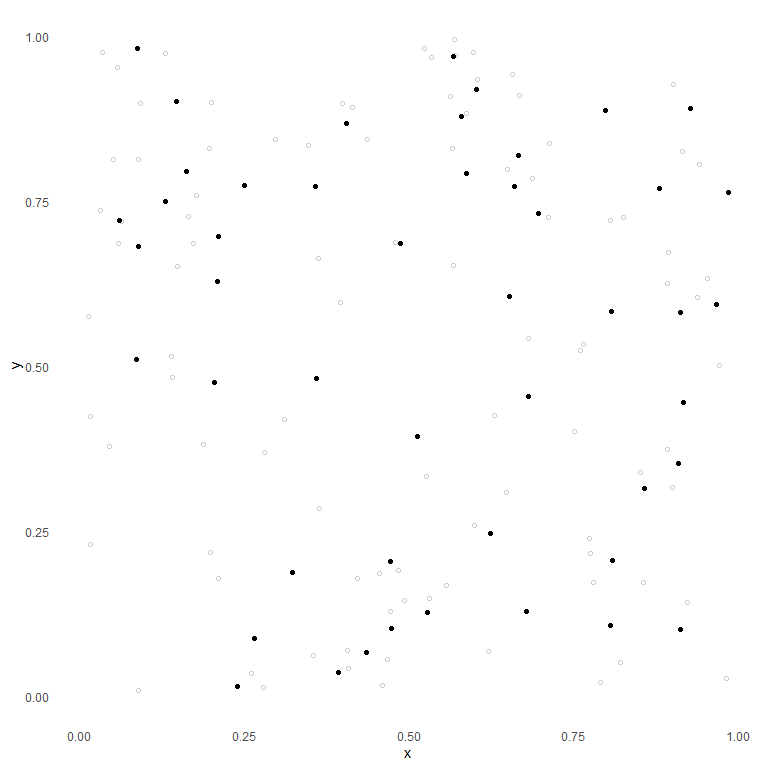
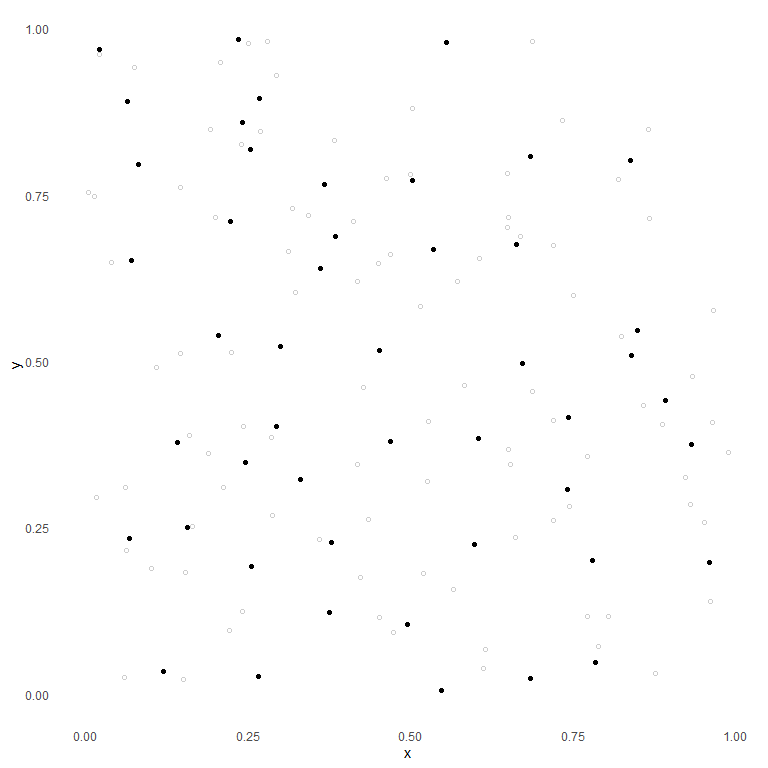
update README.

diff --git a/README.md b/README.md
@@ -15,7 +15,7 @@ the inclusion probabilities vector into a sample.
 ## Build
 
 [![Build
-Status](https://travis-ci.org/RJauslin/wave.svg?branch=master)](https://travis-ci.org/RJauslin/wave)
+Status](https://travis-ci.org/RJauslin/WaveSampling.svg?branch=master)](https://travis-ci.org/RJauslin/WaveSampling)
 
 ## Installation
 
@@ -39,17 +39,17 @@ N <- 144
 n <- 48
 X <- cbind(runif(N),runif(N))
 head(X,10)
-#>            [,1]       [,2]
-#>  [1,] 0.9827716 0.02720247
-#>  [2,] 0.9099612 0.35267267
-#>  [3,] 0.7984794 0.88668410
-#>  [4,] 0.5981094 0.97463048
-#>  [5,] 0.4927665 0.14498118
-#>  [6,] 0.6816093 0.54230465
-#>  [7,] 0.9375286 0.60360192
-#>  [8,] 0.5571925 0.16860458
-#>  [9,] 0.3223545 0.18762365
-#> [10,] 0.4211185 0.17919766
+#>             [,1]       [,2]
+#>  [1,] 0.21261887 0.31034632
+#>  [2,] 0.42808286 0.46127169
+#>  [3,] 0.22365724 0.51317551
+#>  [4,] 0.07037486 0.65225122
+#>  [5,] 0.49935828 0.78124337
+#>  [6,] 0.68688671 0.98001601
+#>  [7,] 0.06034167 0.02506027
+#>  [8,] 0.43572750 0.26305536
+#>  [9,] 0.29332271 0.40218011
+#> [10,] 0.66901770 0.68717741
 ```
 
 Now we need the inclusion probabilities `pik`. Hence, we generate a
